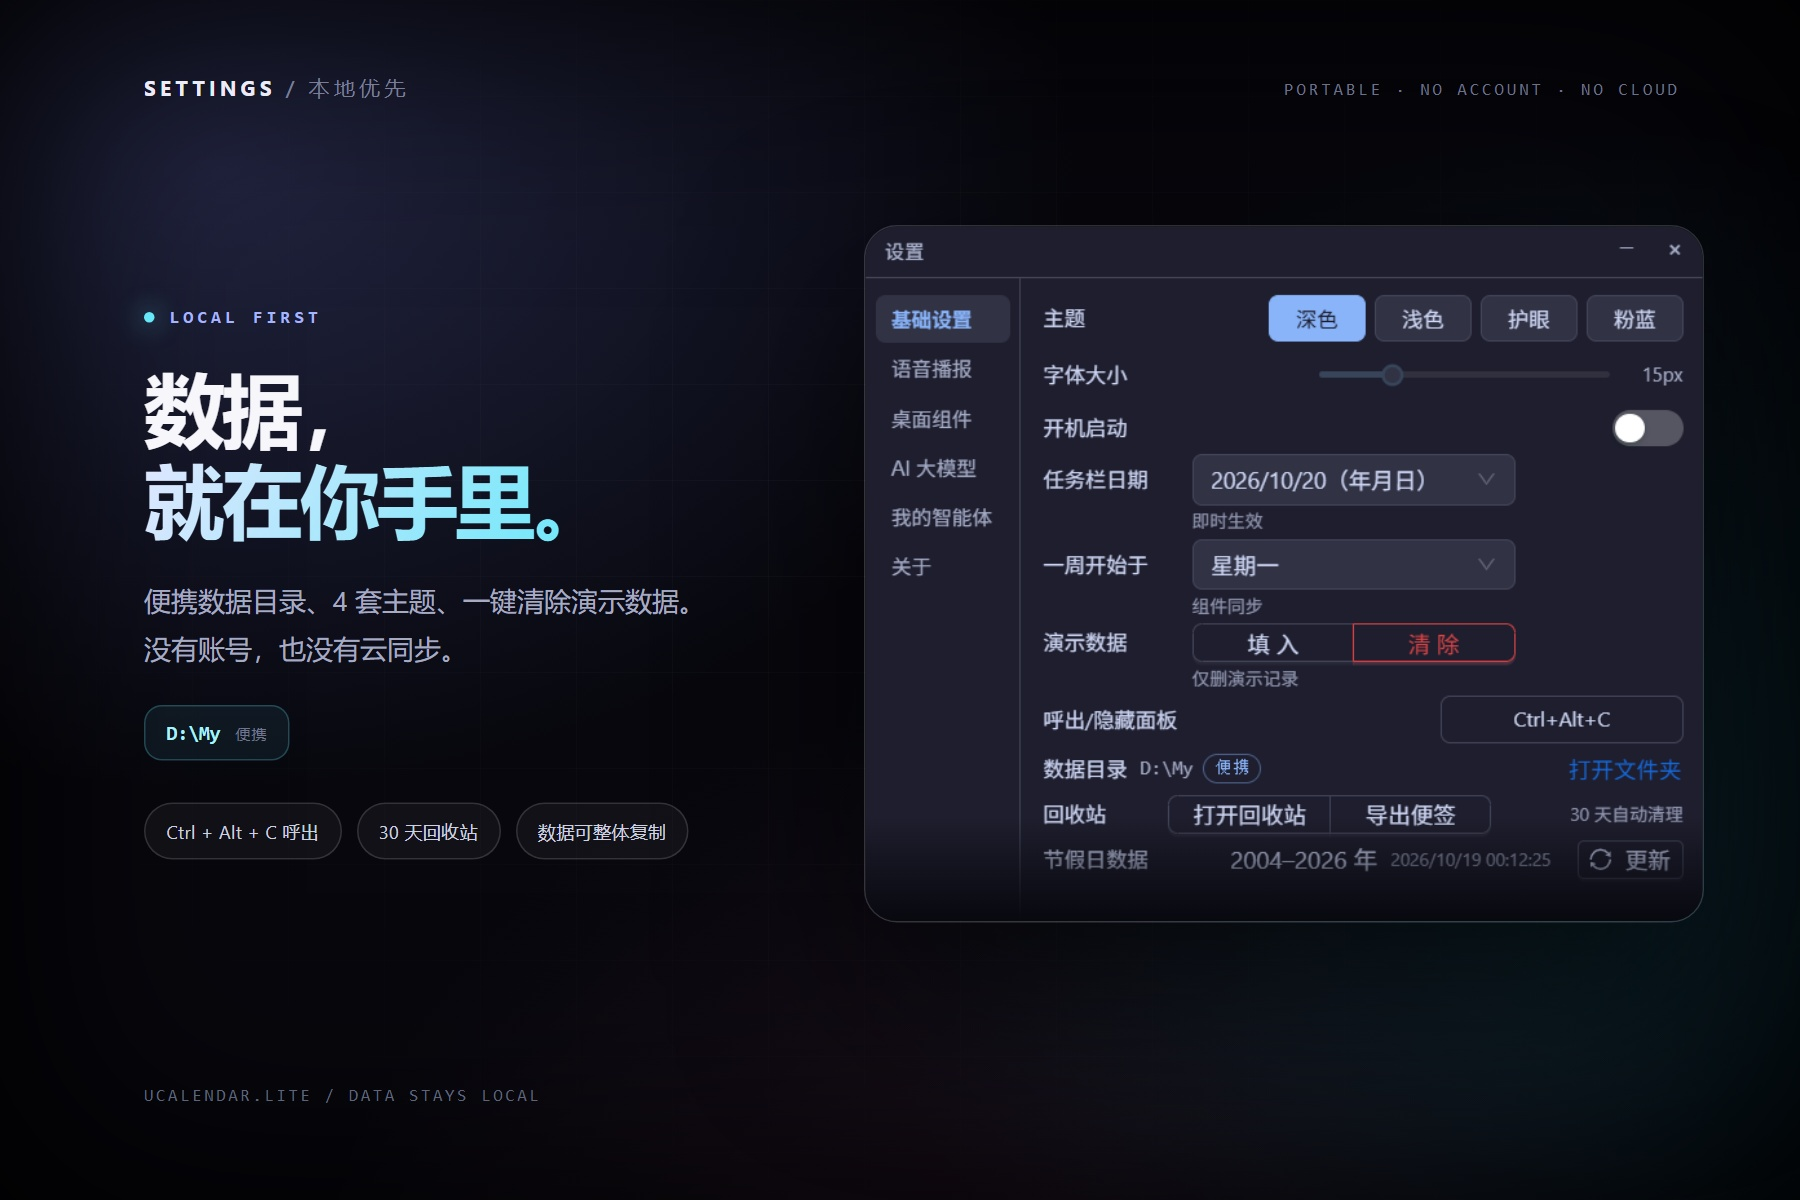
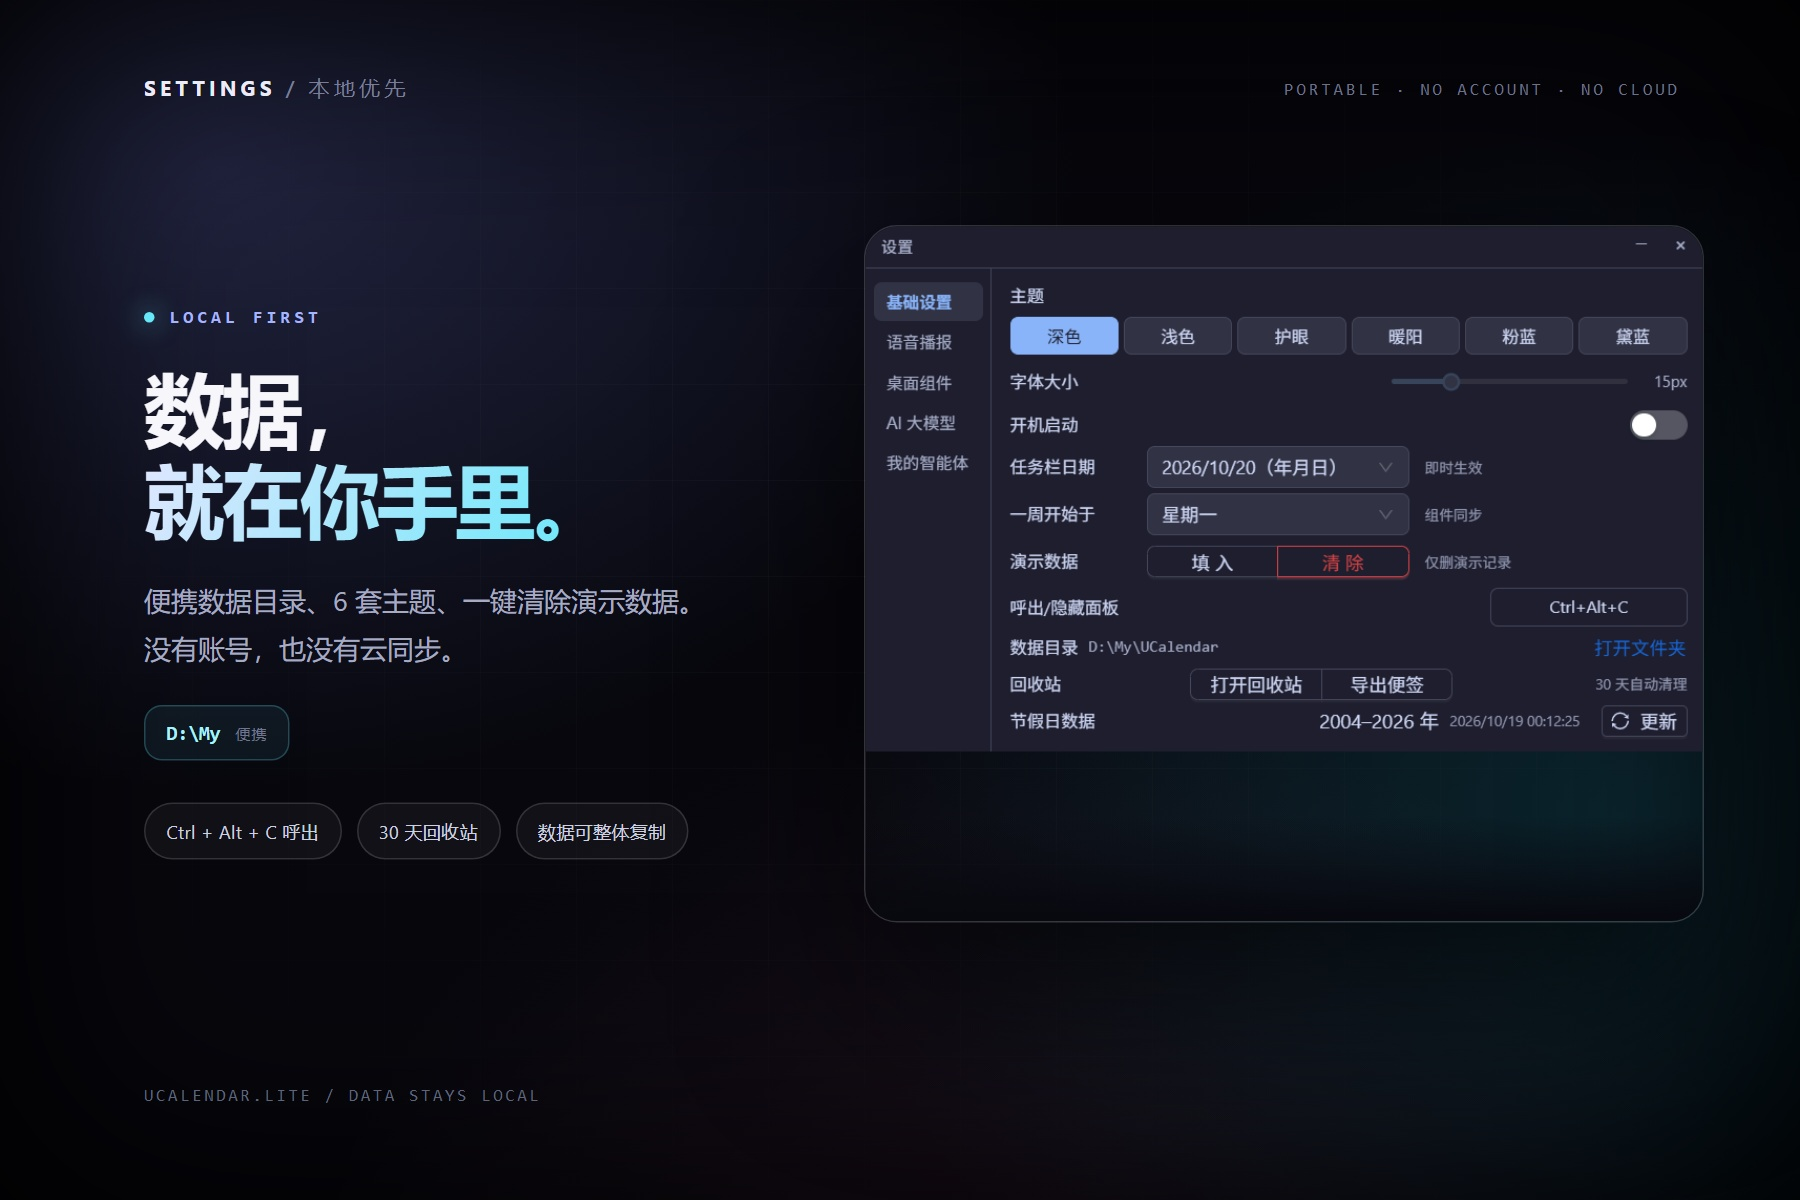
docs: Lite v2.3.0 默认深色与 6 套主题截图

Changed region(s): [[0.4667, 0.185, 0.9333, 0.74]]

diff --git a/README.md b/README.md
@@ -1,8 +1,8 @@
 # UCalendar Lite
 
-**Windows 桌面日历 · 任务栏时钟 · 6 个桌面组件 · AI 小秘书**
+**Windows 桌面日历 · 任务栏时钟 · 6 个桌面组件 · 6 套主题 · AI 小秘书**
 
-单文件绿色版，双击即用。日历、日程、待办、天气、番茄钟、便签住在桌面上；点任务栏时钟，今天的一切就在眼前。
+单文件绿色版，双击即用。日历、日程、待办、天气、番茄钟、便签住在桌面上；默认深色主题，点任务栏时钟，今天的一切就在眼前。
 
 [项目主页](https://tobaba.github.io/ucalendar-site/) · [下载](https://github.com/tobaba/ucalendar-lite/releases/latest/download/UCalendar-Lite.exe) · [反馈](https://github.com/tobaba/ucalendar-lite/issues)
 
@@ -55,23 +55,23 @@
 - **多服务商**：DeepSeek、任意 OpenAI 兼容接口、Claude 均可；API Key 自己填，只存本机
 - **安全边界**：写日程、删数据、执行命令都要弹窗确认；文件操作限定在工作目录
 
-## 4 套主题
+## 6 套主题
 
-深色 / 浅色 / 护眼 / 粉蓝，面板、设置、组件、弹窗统一换肤。
+深色（默认）/ 浅色 / 护眼 / 暖阳 / 粉蓝 / 黛蓝，面板、设置、组件、弹窗统一换肤。
 
 <p align="center">
-  <img src="assets/readme/themes.jpg" width="100%" alt="UCalendar Lite 四套主题">
+  <img src="assets/readme/themes.jpg" width="100%" alt="UCalendar Lite 六套主题">
 </p>
 
-想要世界时钟、秒表、时间进度、工作区预设和 14 套主题，并跟上后续新增功能？[在项目主页查看 Lite 与 Pro 的差异](https://tobaba.github.io/ucalendar-site/?from=lite#editions)。Lite 会长期维护现有免费功能。
+想要世界时钟、秒表、时间进度、工作区预设和 21 套主题，并跟上后续新增功能？[在项目主页查看 Lite 与 Pro 的差异](https://tobaba.github.io/ucalendar-site/?from=lite#editions)。Lite 会长期维护现有免费功能。
 
 ## 数据与设置
 
 <p align="center">
-  <img src="assets/readme/settings.jpg" width="100%" alt="设置：便携数据目录 D:\My 与主题">
+  <img src="assets/readme/settings.jpg" width="100%" alt="设置：便携数据目录 D:\My\UCalendar 与 6 套主题">
 </p>
 
-主题、字体大小、快捷键、演示数据与数据目录都在同一页；复制数据目录即可迁移。截图中的 `D:\My` 是便携目录示例。
+主题、字体大小、快捷键、演示数据与数据目录都在同一页；复制数据目录即可迁移。截图中的 `D:\My\UCalendar` 是便携目录示例。
 
 ## 下载
 
